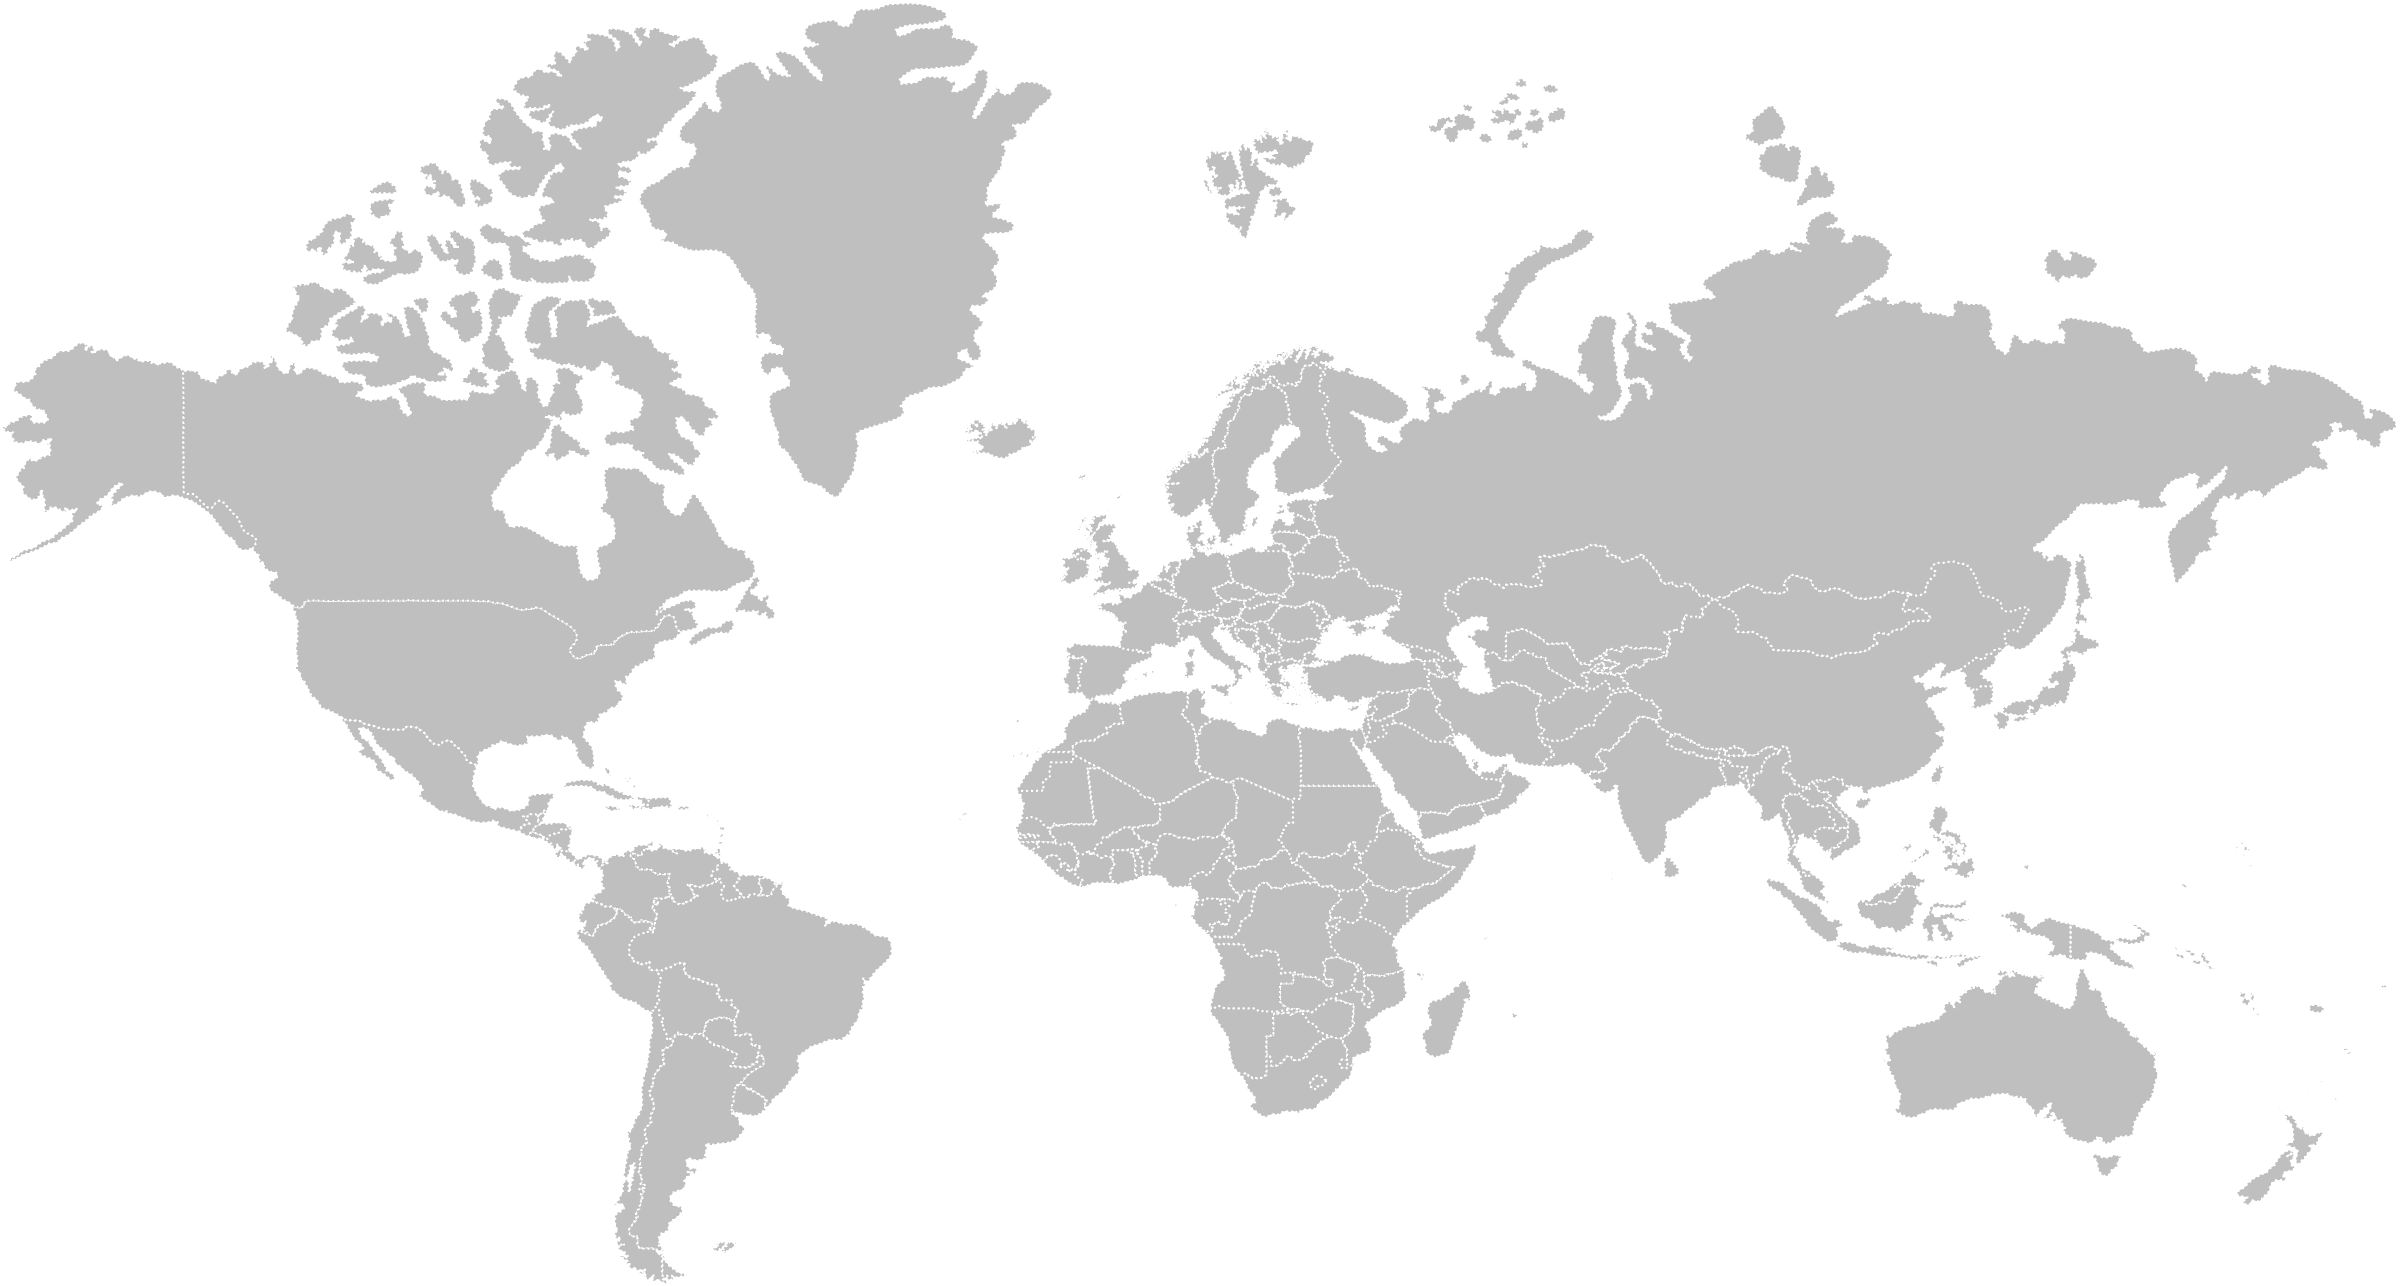
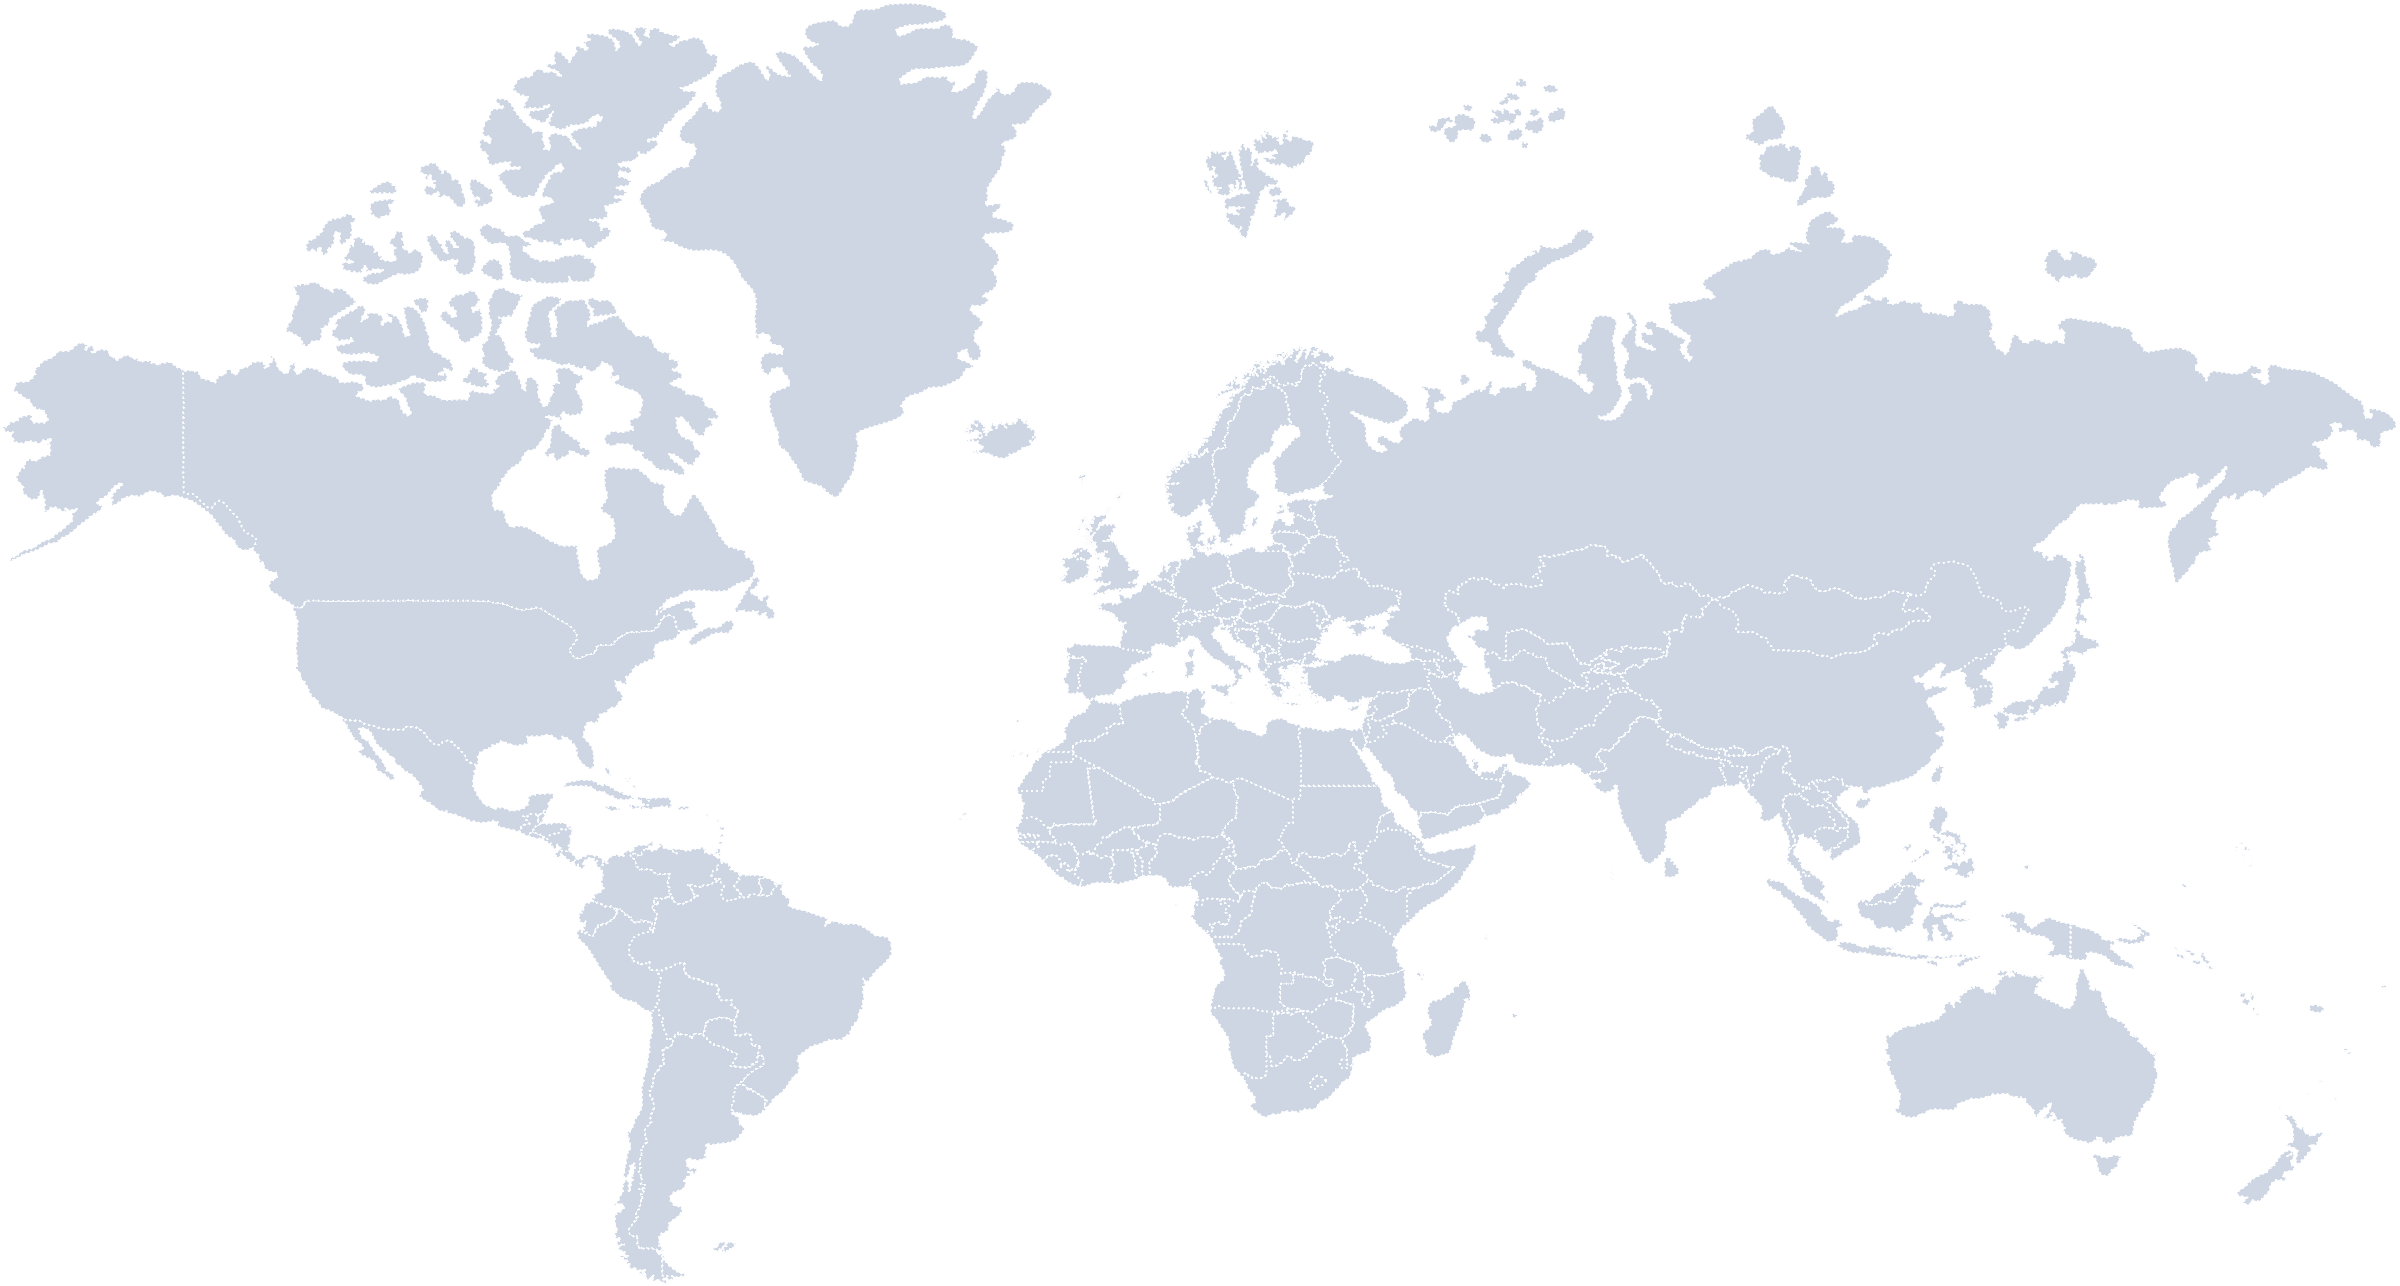
updated network map

diff --git a/_includes/world-map.html b/_includes/world-map.html
@@ -10,20 +10,26 @@ Data: _data/map_locations.yml (markers), _data/partners.yml (institutions), _dat
             <img src="{{ '/img/home_img/world_map_base.png' | relative_url }}" alt="World map of the institutions collaborating with BraiNavLab" width="2400" height="1286" loading="lazy">
             <svg viewBox="0 0 2400 1286" aria-hidden="true">
                 <symbol id="map-pin-shape" viewBox="0 0 89 102">
-                    <path d="M72.5 15.4C88.5 30.9 89 56.4 73.5 72.5 64.2 82.1 54.9 91.8 45.5 101.5 35.9 92.2 26.2 82.8 16.5 73.5 .5 58.1 0 32.6 15.5 16.5 30.9 .5 56.4 0 72.5 15.4Z"/>
-                    <circle cx="44.4" cy="44.9" r="18" fill="#fff"/>
+                    <path d="M44.5 102 16.3 78.9A44.5 44.5 0 1 1 72.7 78.9Z"/>
+                    <circle cx="44.5" cy="44.5" r="18" fill="#fff"/>
                 </symbol>
                 {% for location in site.data.map_locations %}
                     {% assign institutions = site.data.partners | where: "location", location.id %}
                     {% assign shape = site.data.map_shapes[location.id] %}
-                    <g class="map-area" data-location="{{ location.id }}">
+                    {% comment %} The line starts next to the name and ends at the tip of the marker, under it. {% endcomment %}
+                    {% if location.side == "left" %}{% assign start_x = location.label_x | plus: 14 %}{% else %}{% assign start_x = location.label_x | minus: 14 %}{% endif %}
+                    {% assign start_y = location.label_y | minus: 12 %}
+                    {% assign end_y = location.y | minus: 4 %}
+                    <g class="map-area" data-location="{{ location.id }}" style="--i: {{ forloop.index0 }}">
                         {% if shape %}<path class="map-country" d="{{ shape }}"/>{% endif %}
-                        <polyline class="map-line" points="{{ location.line }}"/>
-                        <text class="map-label" x="{{ location.label_x }}" y="{{ location.label_y }}">
+                        <path class="map-line" pathLength="1" d="M{{ start_x }} {{ start_y }}C{{ location.curve }} {{ location.x }} {{ end_y }}"/>
+                        <circle class="map-line-end" cx="{{ start_x }}" cy="{{ start_y }}" r="5"/>
+                        <text class="map-label" x="{{ location.label_x }}" y="{{ location.label_y }}"{% if location.side == "left" %} text-anchor="end"{% endif %}>
+                            {%- comment %} No spaces between the lines: in right-aligned text they would shift them. {% endcomment -%}
                             <tspan class="map-label-title">{{ location.name }}</tspan>
-                            {% for partner in institutions %}
-                                <tspan x="{{ location.label_x }}" dy="34">• {{ partner.name }}</tspan>
-                            {% endfor %}
+                            {%- for partner in institutions -%}
+                                <tspan x="{{ location.label_x }}" dy="34">{{ partner.name }}</tspan>
+                            {%- endfor -%}
                         </text>
                         <use class="map-dot" href="#map-pin-shape" x="{{ location.x | minus: 24 }}" y="{{ location.y | minus: 55 }}" width="48" height="55"/>
                     </g>

diff --git a/css/group.scss b/css/group.scss
@@ -311,7 +311,7 @@ hr {
     }
 }
 
-// Trial: 3D cortex under the Mission title (js/brain-mesh.js, brain_mesh in _config.yml)
+// 3D cortex under the Mission title (js/brain-mesh.js, brain_mesh in _config.yml)
 .brain-mesh {
     display: block;
     width: 100%;
@@ -546,21 +546,28 @@ hr {
 }
 
 .map-country {
-    fill: rgba($blue-dark, 0.22);
+    fill: rgba($blue-dark, 0.3);
     transition: fill 0.2s ease;
 }
 
 .map-line {
     fill: none;
-    stroke: #a5a5a5;
-    stroke-width: 3.75;
+    stroke: $blue-dark;
+    stroke-opacity: 0.5;
+    stroke-width: 2.5;
     pointer-events: none;
-    transition: stroke 0.2s ease;
+    transition: stroke-opacity 0.2s ease, stroke-width 0.2s ease;
+}
+
+.map-line-end {
+    fill: $blue-dark;
+    pointer-events: none;
 }
 
 .map-label {
     fill: $text;
     font-size: 28px;
+    font-kerning: none;     // Safari ignores it when it aligns SVG text to the right, and the lines would not line up
     paint-order: stroke;
     stroke: rgba(255, 255, 255, 0.85);
     stroke-width: 5px;
@@ -586,11 +593,12 @@ hr {
     &.is-hot,
     &.is-active {
         .map-country {
-            fill: rgba($blue-dark, 0.5);
+            fill: rgba($blue-dark, 0.6);
         }
 
         .map-line {
-            stroke: $blue-dark;
+            stroke-opacity: 1;
+            stroke-width: 3.5;
         }
 
         .map-dot {
@@ -610,18 +618,6 @@ hr {
     svg {
         display: block;
         fill: currentColor;
-    }
-}
-
-// Close markers overlap: only the drawn shape of each one responds, not its rectangle
-@media (min-width: #{$tablet + 1}) {
-    .map-pin,
-    .map-pin svg {
-        pointer-events: none;
-    }
-
-    .map-pin use {
-        pointer-events: auto;
     }
 }
 
@@ -696,15 +692,10 @@ hr {
         width: var(--pin-width);
         color: $blue-dark;
         filter: drop-shadow(0 1px 2px rgba(0, 0, 0, 0.35));
+        pointer-events: none;       // close markers overlap: only the drawn shape of each one responds
         transform: translateX(-50%);
         transform-origin: 50% 100%;
         transition: transform 0.18s ease, color 0.18s ease;
-
-        &:hover,
-        &:focus-visible {
-            color: $blue-hover;
-            transform: translateX(-50%) scale(1.35);
-        }
 
         &:focus-visible {
             outline: 2px solid $blue-dark;
@@ -715,9 +706,16 @@ hr {
         svg {
             width: 100%;
             height: auto;
+            pointer-events: none;
+        }
+
+        use {
+            pointer-events: auto;
         }
     }
 
+    .map-pin:hover,
+    .map-pin:focus-visible,
     .is-hot > .map-pin,
     .map-location[open] > .map-pin {
         color: $blue-hover;
@@ -784,7 +782,8 @@ hr {
 // Phones and tablets: the map would be too small for labels and markers, so the markers become a list under it
 @media (max-width: $tablet) {
     .map-label,
-    .map-line {
+    .map-line,
+    .map-line-end {
         display: none;
     }
 
@@ -851,6 +850,7 @@ hr {
 @media print {
     .map-label,
     .map-line,
+    .map-line-end,
     .map-dot {
         display: inline;
     }

diff --git a/js/brain-mesh.js b/js/brain-mesh.js
@@ -1,14 +1,13 @@
-// Trial: 3D cerebral cortex under the Mission title of the home page, turning with the scroll of the page.
-// To remove it: "brain_mesh: false" in _config.yml, see there. Plain WebGL, no libraries.
+// 3D cerebral cortex under the Mission title of the home page, turning with the scroll of the page.
+// To remove it: "brain_mesh: false" in _config.yml. Plain WebGL, no libraries.
 // Surface: ICBM152 template of BrainNet Viewer, provided by Prof. Alan C. Evans (MNI), reduced with
 // img/_sources/brain/build_brain_mesh.py. The colours are those of the BraiNavLab logo.
 
 const brainCanvas = document.querySelector('.brain-mesh');
-const brainGl = brainCanvas && brainCanvas.getContext('webgl', { antialias: true });
-if (brainCanvas && !brainGl) brainCanvas.hidden = true;     // without WebGL there is simply no brain
+const gl = brainCanvas && brainCanvas.getContext('webgl', { antialias: true });
+if (brainCanvas && !gl) brainCanvas.hidden = true;     // without WebGL there is simply no brain
 
-if (brainGl) {
-    const gl = brainGl;
+if (gl) {
     const LEFT_SIDE_VIEW = Math.PI / 2;     // the left hemisphere faces the visitor when the brain is mid-screen
     const TILT = 0.2;                       // seen slightly from above
     const TURN_PER_SCREEN = 2.4;            // radians for a scroll of one screen height
@@ -68,7 +67,7 @@ if (brainGl) {
 
     const reducedMotion = window.matchMedia('(prefers-reduced-motion: reduce)').matches;
     let faceCount = 0;
-    let angle = null;
+    let angle = 0;
     let frame = 0;
     let onScreen = false;
 
@@ -93,7 +92,7 @@ if (brainGl) {
         frame = 0;
         if (!faceCount) return;
         const target = targetAngle();
-        angle = angle === null ? target : angle + (target - angle) * 0.14;
+        angle += (target - angle) * 0.14;
         if (Math.abs(target - angle) < 0.001) angle = target;
         draw();
         if (angle !== target) frame = requestAnimationFrame(animate);

diff --git a/index.html b/index.html
@@ -92,13 +92,12 @@ notitle: true
                 <ul class="logo-marquee-group"{% if round == 2 %} aria-hidden="true"{% endif %}>
                     {% for partner in site.data.partners %}
                         {% if partner.logo %}
+                        {% capture logo %}<img src="{{ partner.logo | relative_url }}" alt="{{ partner.name | escape }}" height="{{ partner.height | default: 56 }}">{% endcapture %}
                         <li>
                             {% if partner.url %}
-                                <a href="{{ partner.url }}" target="_blank" rel="noopener" title="{{ partner.name | escape }}"{% if round == 2 %} tabindex="-1"{% endif %}>
-                                    <img src="{{ partner.logo | relative_url }}" alt="{{ partner.name | escape }}" height="{{ partner.height | default: 56 }}">
-                                </a>
+                                <a href="{{ partner.url }}" target="_blank" rel="noopener" title="{{ partner.name | escape }}"{% if round == 2 %} tabindex="-1"{% endif %}>{{ logo }}</a>
                             {% else %}
-                                <img src="{{ partner.logo | relative_url }}" alt="{{ partner.name | escape }}" height="{{ partner.height | default: 56 }}">
+                                {{ logo }}
                             {% endif %}
                         </li>
                         {% endif %}

diff --git a/css/restyle.scss b/css/restyle.scss
@@ -484,14 +484,28 @@ section {
 }
 
 // Markers drop in the first time the map enters the screen (see js/restyle.js)
-@media (min-width: #{$tablet + 1}) {
-    .pins-waiting .map-pin {
+@media screen and (min-width: #{$tablet + 1}) {
+    .pins-waiting .map-pin,
+    .pins-waiting .map-line,
+    .pins-waiting .map-line-end {
         opacity: 0;
     }
 
     .pins-drop .map-pin {
         animation: pin-drop 0.45s $ease backwards;
         animation-delay: calc(var(--i) * 70ms);
+    }
+
+    // Then the lines draw themselves from the names to the markers
+    .pins-drop .map-line {
+        stroke-dasharray: 1;
+        animation: line-draw 0.7s ease-out backwards;
+        animation-delay: calc(var(--i) * 70ms + 0.3s);
+    }
+
+    .pins-drop .map-line-end {
+        animation: line-end-in 0.3s ease-out backwards;
+        animation-delay: calc(var(--i) * 70ms + 0.3s);
     }
 
     .map-popup {
@@ -509,6 +523,18 @@ section {
         border: 0;
         border-left: 1px solid $hairline;
         border-top: 1px solid $hairline;
+    }
+}
+
+@keyframes line-draw {
+    from {
+        stroke-dashoffset: 1;
+    }
+}
+
+@keyframes line-end-in {
+    from {
+        opacity: 0;
     }
 }
 

diff --git a/CURATORS_GUIDE.md b/CURATORS_GUIDE.md
@@ -26,7 +26,7 @@ and open <http://127.0.0.1:4000>. The page reloads by itself when you save a fil
 | People | `_data/people.yml` |
 | Funded projects | `_data/funded_projects.yml` |
 | Partner logos and world map on the home page | `_data/partners.yml`, `_data/map_locations.yml`, `img/partners/` |
-| 3D brain under Mission (trial) | `brain_mesh` in `_config.yml`, `js/brain-mesh.js`, `img/home_img/brain_mesh.bin` |
+| 3D brain under Mission | `brain_mesh` in `_config.yml`, `js/brain-mesh.js`, `img/home_img/brain_mesh.bin` |
 | Styles | `css/group.scss` |
 | Scripts | `js/site.js` |
 | Optional restyling | `css/restyle.scss`, `js/restyle.js`, `_includes/home-hero.html`, `fonts/` (`restyle: false` in `_config.yml` turns it off; to remove it for good, set that first, then delete these files) |
@@ -79,7 +79,7 @@ Add a block to `_data/partners.yml` (without `url`, the logo and the name are si
 
 The field `location` decides the marker of the world map: the name appears on the map and in the pop-up of that marker, with the link to the website.
 
-For a country not yet on the map, also add a block to `_data/map_locations.yml`: `x` and `y` are the pixels of the tip of the marker on `img/home_img/world_map_base.png`, which you can read with any image viewer. The source of that image is in `img/_sources/map/`.
+For a country not yet on the map, also add a block to `_data/map_locations.yml`: `x` and `y` are the pixels of the tip of the marker on `img/home_img/world_map_base.png`, which you can read with any image viewer. The other fields are explained at the top of that file. The base image comes from the map in `img/_sources/map/`, without markers and labels.
 
 ## Images
 
